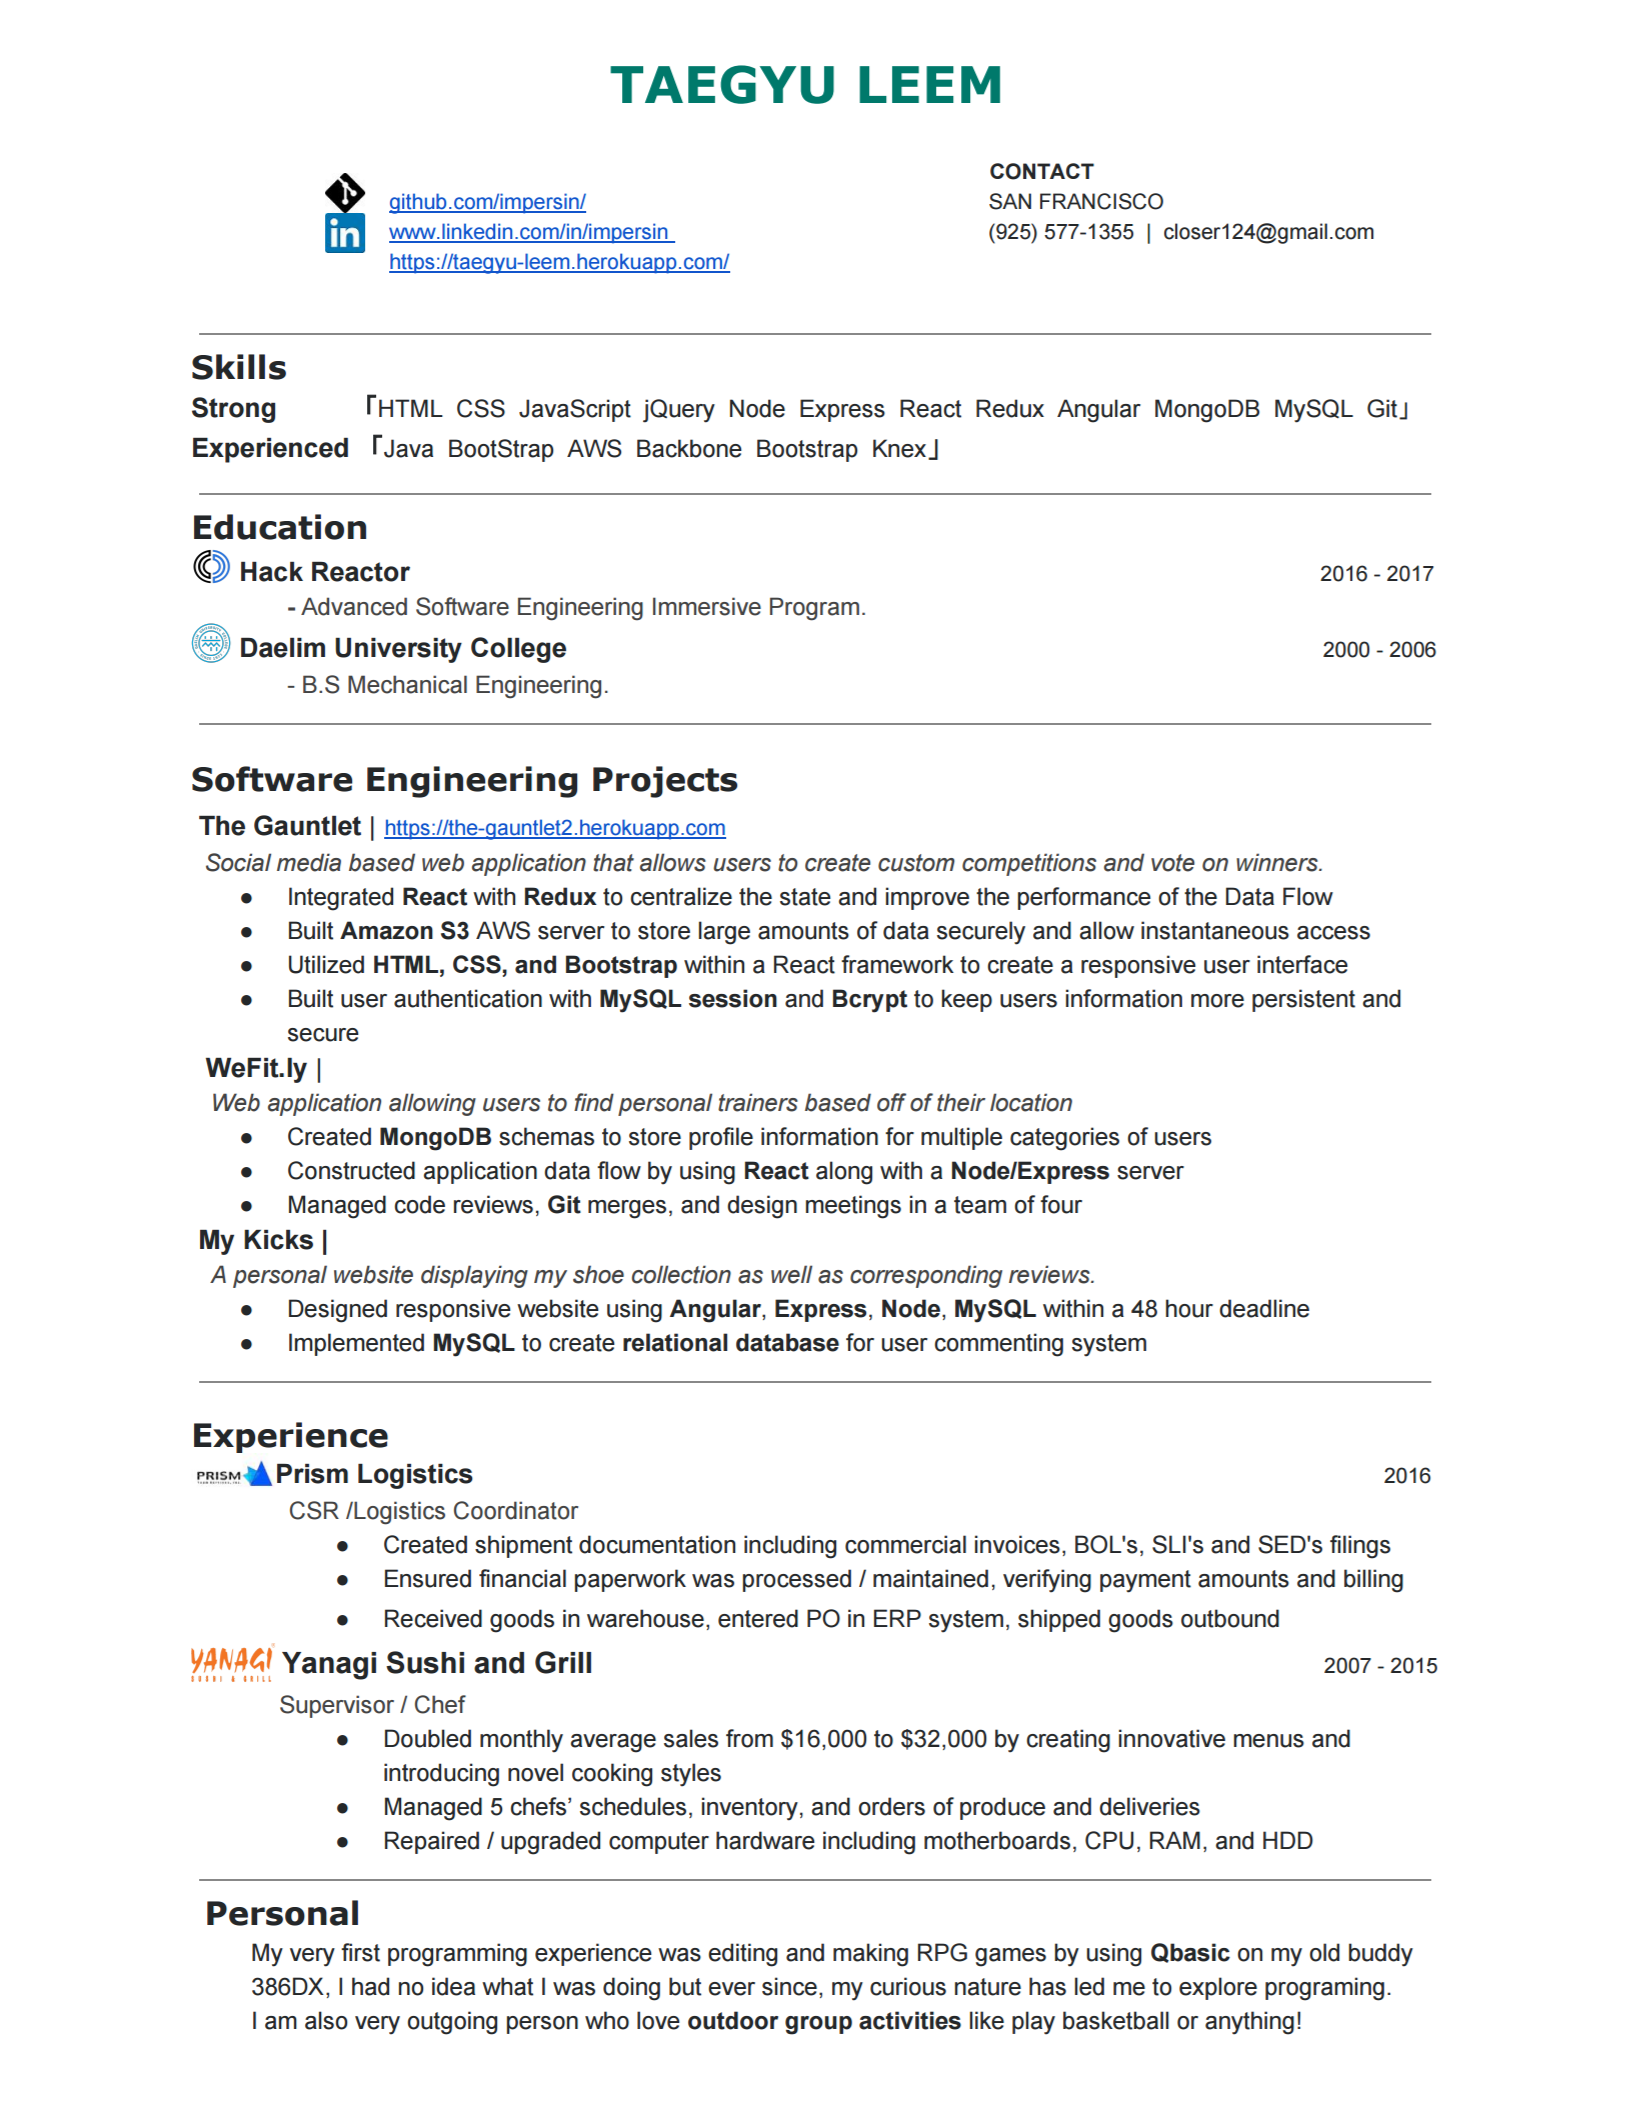
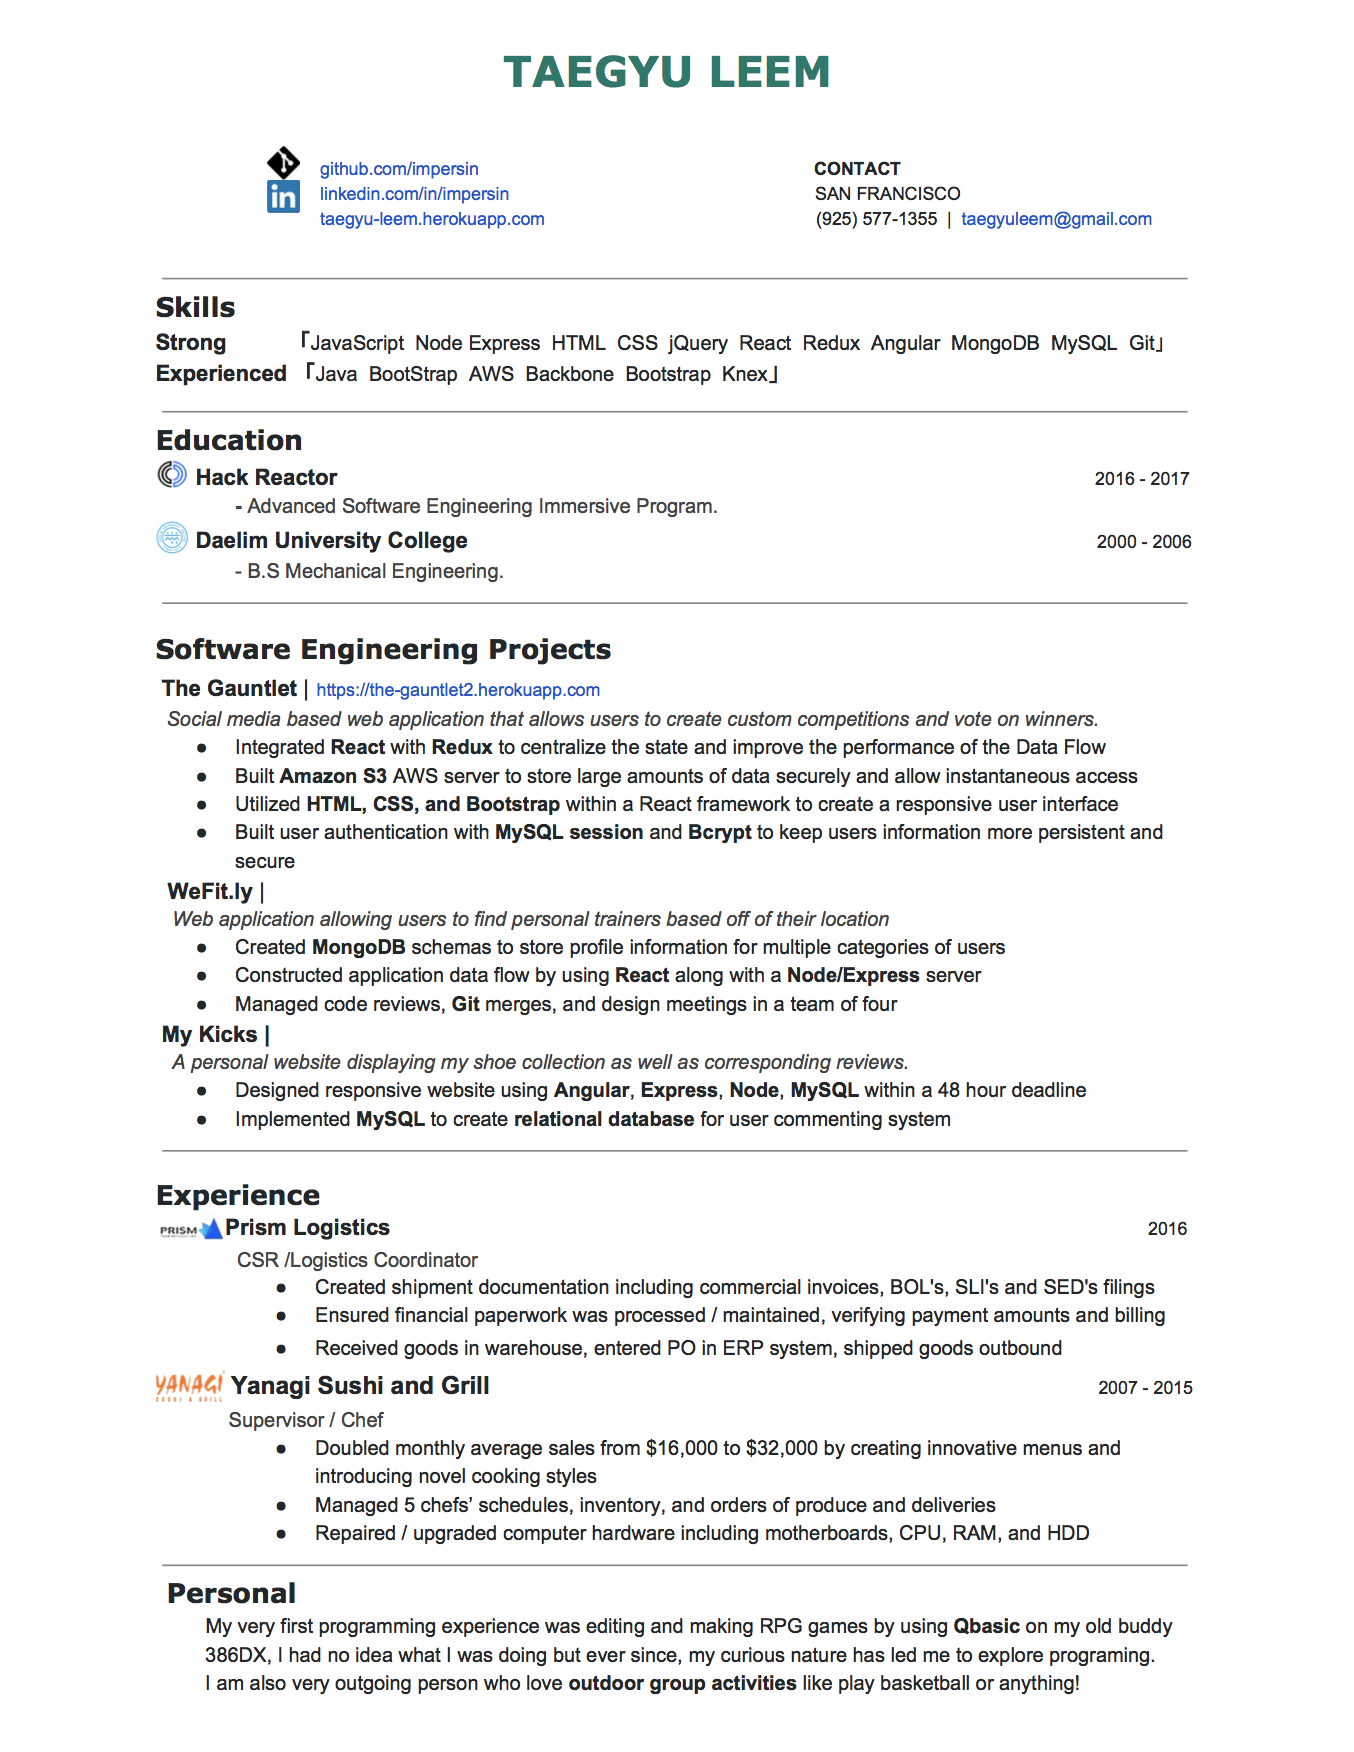
Changed Update email on landing page and resume.

diff --git a/client/controllers/homeController.js b/client/controllers/homeController.js
@@ -4,7 +4,7 @@ angular.module('myApp.home', [])
       firstName: 'Terry',
       lastName: 'Leem',
       title: 'Full stack Javacript Developer',
-      email: 'closer124@gmail.com',
+      email: 'taegyuleem@gmail.com',
       linkedIn: 'https://www.linkedin.com/in/impersin',
       github: 'https://github.com/impersin/',
       phone: '(925) 577-1355',
